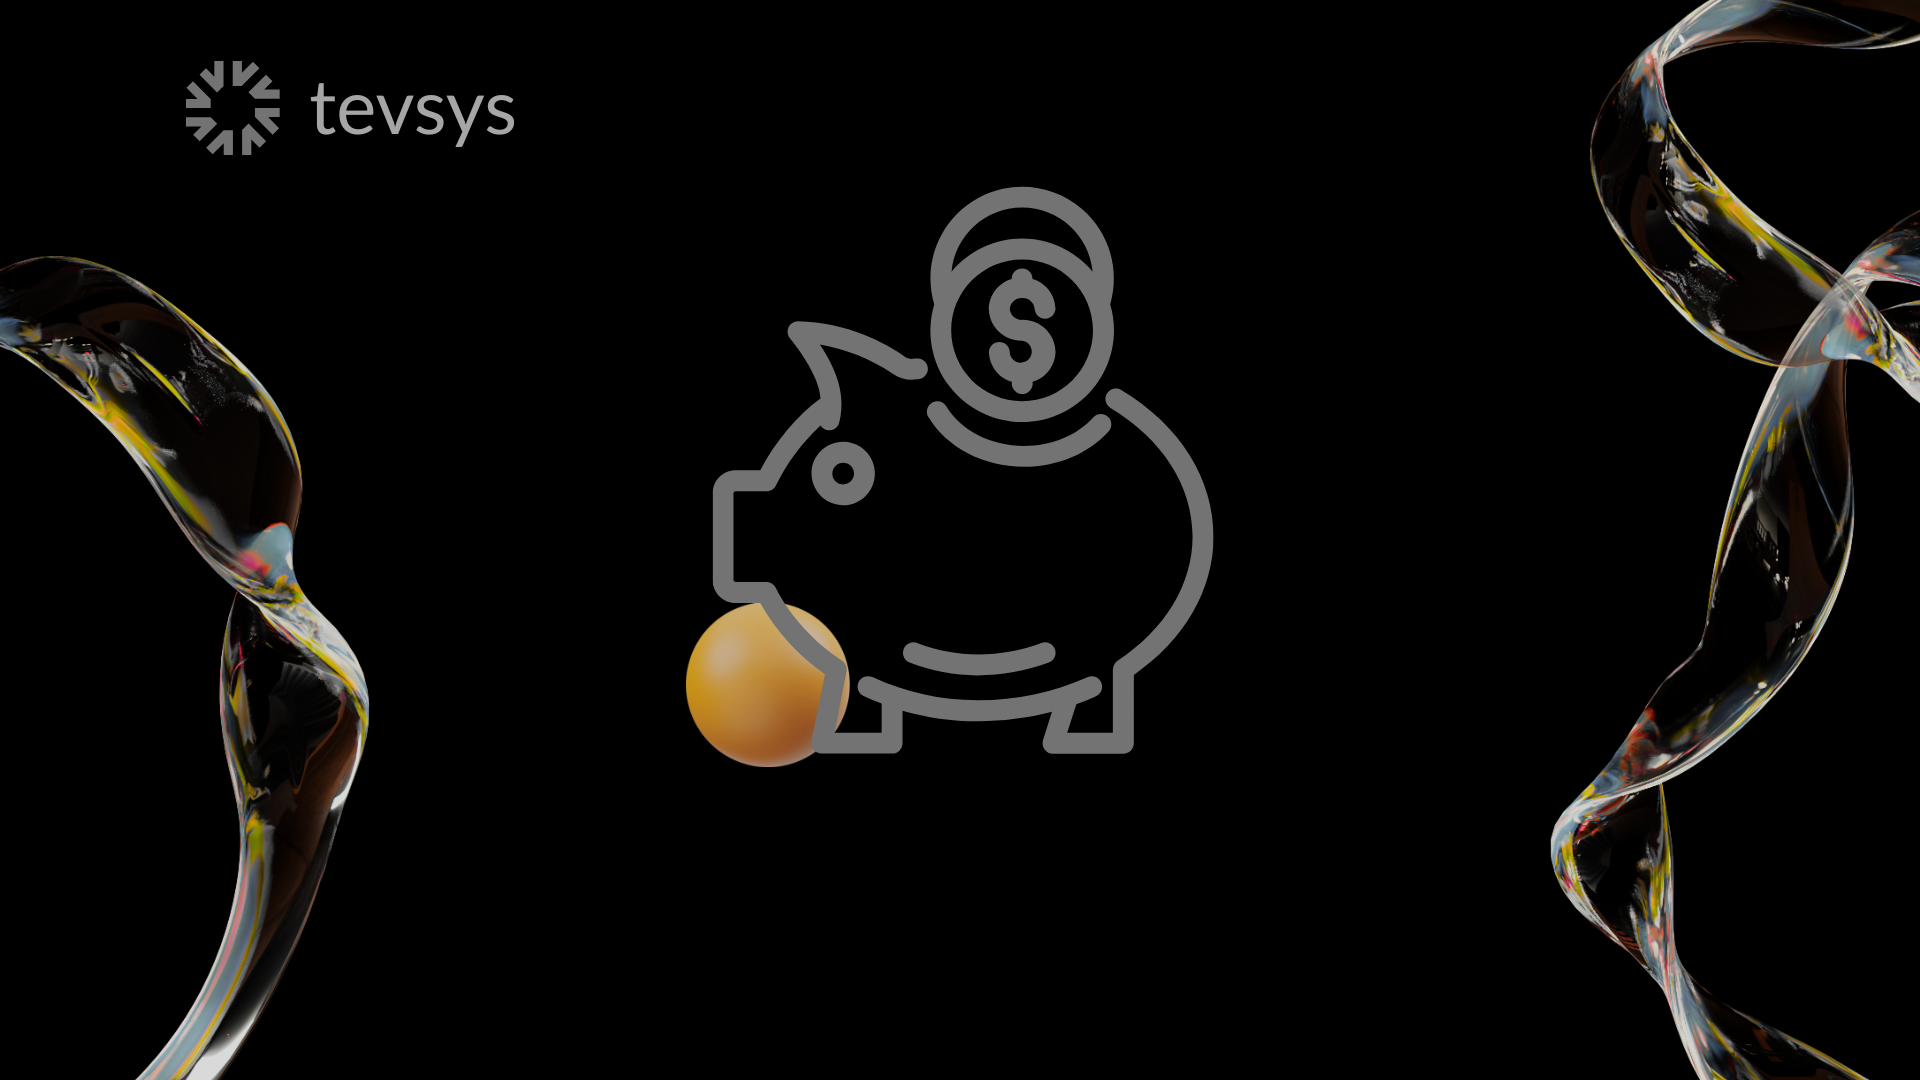
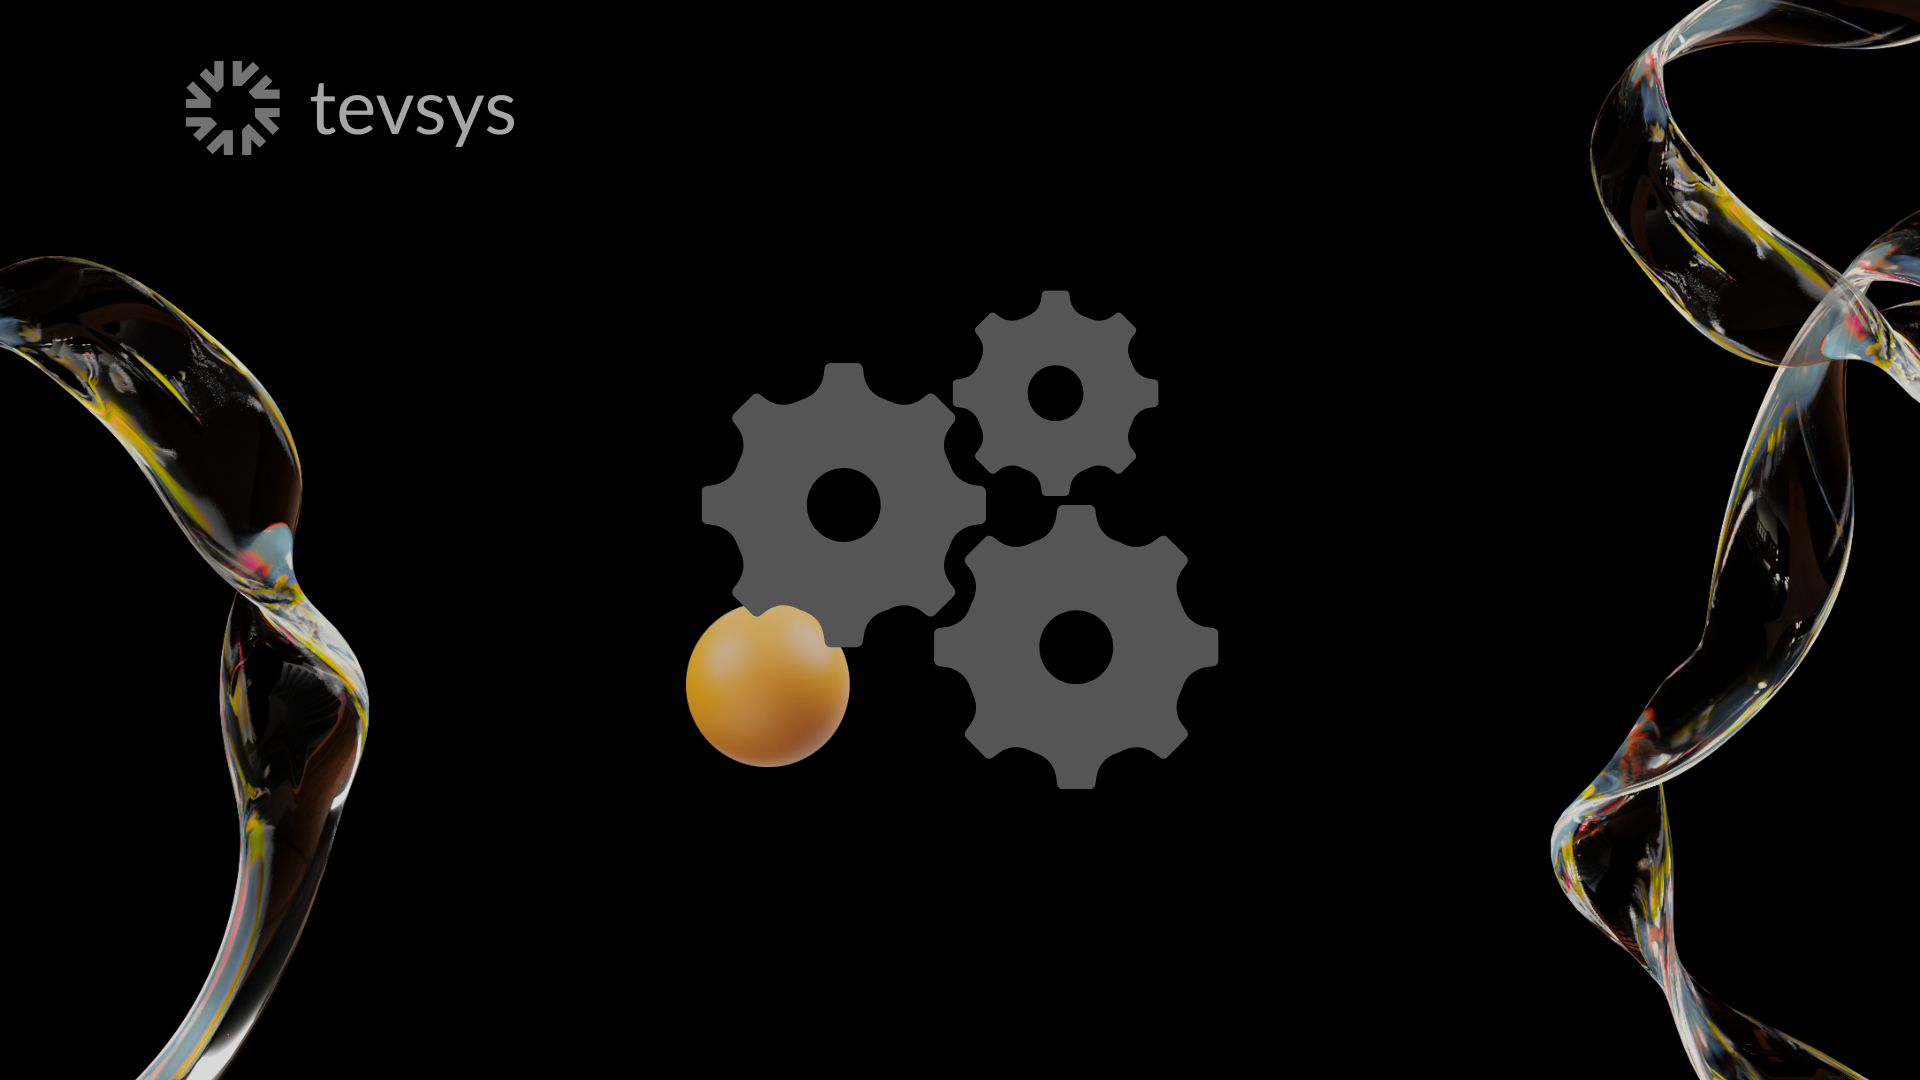
feat(web): card Precisión — engranaje motor (card-1-input v8) + docs

Changed region(s): [[0.3438, 0.1528, 0.6562, 0.7333]]

diff --git a/docs/HOME_HERO_CARDS_ITERACION_ABR2026.md b/docs/HOME_HERO_CARDS_ITERACION_ABR2026.md
@@ -1,6 +1,6 @@
 # Home, hero, header y cards — iteración abril 2026 (confirmado)
 
-Documento de referencia para lo acordado y aplicado en código hasta **abr 2026**. **19 abr 2026:** coherencia tipográfica global (tema oscuro), hero (H1 DM Sans, stack `#000`), escáner con intensidad restaurada, cards `?v=7`, CTAs demo unificados, respiro `.feature-hero` en micropáginas. Estado: **cards** con assets y lectura reforzada; **siguiente fase:** decisión de equipo sobre mensajes finales + **revisión móvil** (hero / escáner) cuando se priorice.
+Documento de referencia para lo acordado y aplicado en código hasta **abr 2026**. **19 abr 2026:** coherencia tipográfica global (tema oscuro), hero (H1 DM Sans, stack `#000`), escáner con intensidad restaurada, CTAs demo unificados, respiro `.feature-hero` en micropáginas; **card 1 (Precisión)** — ilustración **engranajes + esfera** (motor / coherencia con icono EA fin de semana), **`card-1-input.png?v=8`**. Estado: **cards** con assets y lectura reforzada; **siguiente fase:** mensajes finales + ajustes menores si hace falta.
 
 **Repos / rutas:** proyecto `tevsys-landiing` (Astro). Imágenes públicas bajo `public/assets/...`.
 
@@ -45,9 +45,9 @@ Documento de referencia para lo acordado y aplicado en código hasta **abr 2026*
 | **Grid** | 2 columnas desktop; 1 columna móvil; gap aumentado. **Abr 2026:** más aire antes del grid (`margin` bajo intro “Ellos deslizan…” + `margin-top` en `.feature-card__grid`). |
 | **Cards (`.tevsys-card`)** | `--feature-card-radius`; borde/sombra suaves + halo ámbar muy bajo en reposo; hover acentuado sin borde tan duro (abr 2026, integración SaaS). |
 | **Estructura** | Fondo de la card **transparente**; **gris solo** en `.tevsys-card__content` (texto). Evita franja gris entre imagen y texto por fondo heredado + rendija bajo `<img>` (img `display: block`, `picture` bloque, `line-height: 0`). |
-| **Zona imagen** | `background-color: var(--theme-bg)`. **`img`:** mismo `filter` que la mano del hero (`brightness(0.91) saturate(0.97) contrast(1.04)`); hover un poco más vivo; **contraste ≥1** para no parecer borroso. PNG/Canva sigue siendo la base. **19 abr 2026:** cuatro PNG nuevos en `public/.../card-*.png`; **cache-bust `?v=7`** en las cuatro rutas en `index.astro`. |
+| **Zona imagen** | `background-color: var(--theme-bg)`. **`img`:** mismo `filter` que la mano del hero (`brightness(0.91) saturate(0.97) contrast(1.04)`); hover un poco más vivo; **contraste ≥1** para no parecer borroso. PNG/Canva sigue siendo la base. **19 abr 2026:** renovación de assets; **card 1** — **`?v=8`** (`engranaje motor`). |
 | **Zona texto** | Fondo ~`hsl(0, 0%, 6%)` (más cerca del `--theme-bg` ~2% L); párrafos con tamaño, peso 500, color explícito; **hooks** `.feature-card__hook` con **opacity: 1** dentro de cards (la regla global con 0.9 apagaba el texto). **H3** con peso 700. **Lectura reforzada:** clase `.feature-card__value-accent` en cuerpo — **71 operativas**, **no poder seguir**, **mín. 75 % protegido** (misma línea que evidencia `0,0072 %`). |
-| **Card 1 (Precisión / cerdito)** | Primera versión: `<picture>` WebP + PNG; **ajuste:** solo **PNG** en `<img>` para ver exports nuevos sin depender de regenerar `.webp` (cuando haya `npm` + `sharp`, ejecutar `node scripts/optimize-images.js` y se puede volver a `<picture>`). |
+| **Card 1 (Precisión)** | Ilustración **engranajes + esfera ámbar** (motor / ajuste en tiempo real); alineada al **icono engranaje** del EA en configuración fin de semana (vs candado en operativa). Solo **PNG** en `<img>` (WebP opcional tras `optimize-images.js`). Sustituye diseño anterior con alcancía. |
 | **Planes (misma página)** | Fondo y borde/sombra alineados a las cards de valor (`hsl(0,0%,6%)`, halo suave). CTA primario alineado al estilo global de demo (ver **CTAs** abajo). |
 | **CTAs “Descargar demo” / planes** | Reglas compartidas en `global.css` para `a.hero-download-btn`, `a.feature-cta__button`, `a.precios-cta__button`, `a.plan-card__cta:not(.secondary)` — misma tipografía (**Inter 1rem**), padding, radio, color y hover; duplicados locales retirados donde aplica. |
 | **Móvil** | Imagen de card con `aspect-ratio` y `max-height` acotados. |
@@ -63,7 +63,7 @@ Documento de referencia para lo acordado y aplicado en código hasta **abr 2026*
 
 - **Cintas / formas iridiscentes:** en Canva, seleccionar esas capas y **bajar brillo** y **saturación** (o “Tono” / “Transparencia” si el efecto sigue fuerte). Objetivo: que el color no compita con el ámbar de la web; reexportar **mismo tamaño** que el PNG actual. Sustituir en `public/assets/images/home/cards/` y subir `?v=` en `index.astro` si hace falta forzar caché.
 - Fondos probados en diseño: de gris apreciable (**#161618**) a casi negro página (**#060606**, **#050505** / alinear a `--theme-bg`).
-- **Confirmado en código:** contenedor imagen = `var(--theme-bg)`; reexportes sucesivos del usuario a **`public/assets/images/home/cards/card-*.png`** (abr 2026). **Cache-bust** en la home: **`?v=7`** (19 abr 2026) para las cuatro cards.
+- **Confirmado en código:** contenedor imagen = `var(--theme-bg)`; reexportes del usuario a **`public/assets/images/home/cards/card-*.png`**. **Cache-bust card 1:** **`?v=8`** (19 abr 2026, engranaje motor); demás cards según `index.astro`.
 - **WebP** (`card-1-input.webp`): debe **regenerarse** localmente con `scripts/optimize-images.js` cuando el entorno tenga dependencias instaladas; hasta entonces la home puede usar solo PNG en esa card.
 
 ---

diff --git a/docs/CHANGELOG-TEVSYS.md b/docs/CHANGELOG-TEVSYS.md
@@ -4,6 +4,19 @@ Registro completo de cambios aplicados en la landing de tevsys (base Odyssey The
 
 ---
 
+## Home — card 1 (Precisión): engranaje motor (19 abr 2026)
+
+**Motivo:** Sustituir la ilustración anterior (alcancía / “cerdito”) por **engranajes + esfera ámbar**, metáfora de **motor / ajuste en tiempo real**. Alineado con el producto: en el EA, icono de **engranaje** en modo configuración fin de semana; **candado teal** al pasar a operativa protegida.
+
+| Área | Detalle |
+|------|--------|
+| **Asset** | `public/assets/images/home/cards/card-1-input.png` — Canva / export usuario. Origen local típico: `Downloads/card-1-input.png`. |
+| **Web** | `src/pages/index.astro` — misma ruta; **cache-bust `?v=8`** en la imagen de la card 1. |
+
+**Doc:** `HOME_HERO_CARDS_ITERACION_ABR2026.md` §3–4, `CONTENIDO_WEB_TEVSYS_LANDING.md` (cards), `ARREGLOS_WEB_TEVSYS_TODOS_LOS_ARCHIVOS.md`.
+
+---
+
 ## Web — coherencia tipográfica, hero, cards, CTAs y micropáginas (19 abr 2026)
 
 **Objetivo:** Una sola lectura de producto (Inter + DM Sans solo en H1 home), negro unificado, CTAs demo idénticos, micropáginas alineadas y documentación al día con decisiones recientes.
@@ -14,7 +27,7 @@ Registro completo de cambios aplicados en la landing de tevsys (base Odyssey The
 | **H1 hero** | **DM Sans** solo en `.hero-title` (se probó Plus Jakarta Sans, descartada). Resto del hero y header siguen en **Inter**. Google Fonts: `DM+Sans` + `Inter` en `BaseHead.astro`. | `BaseHead.astro`, `HomeHeroSection.astro` |
 | **Imagen mano** | Viñeta más suave; filtros para nitidez; marco exterior del recorte con **animación opcional** de brillo (reduced-motion sin animación); sin marcos CSS que imiten óvalos del PNG. | `HomeHeroSection.astro` |
 | **Escáner header (home)** | **Intensidad restaurada** respecto a la iteración “menos discoteca”: más opacidad, gradientes y `animation-duration` algo más cortas (escritorio/móvil) para dar “vida” sin tocar filosofía del motion. | `global.css` |
-| **Cards home** | Nuevos PNG en `public/.../card-*.png`; **cache-bust `?v=7`** en `index.astro`. Cintas retocadas en origen (tonos ámbar/gris/negro, sin arcoíris). **Lectura:** `feature-card__value-accent` en cuerpo — **71 operativas**, **no poder seguir**, **mín. 75 % protegido** (misma línea que evidencia `0,0072 %`). | `index.astro`, assets |
+| **Cards home** | Nuevos PNG en `public/.../card-*.png`; **cache-bust** en `index.astro` (card 1 **`?v=8`** desde engranaje motor; otras cards según iteración). Cintas retocadas en origen (tonos ámbar/gris/negro, sin arcoíris). **Lectura:** `feature-card__value-accent` en cuerpo — **71 operativas**, **no poder seguir**, **mín. 75 % protegido** (misma línea que evidencia `0,0072 %`). | `index.astro`, assets |
 | **Tema oscuro — tipografía global** | **`[data-theme='dark']`:** `--theme-font-family-sans` y `--theme-font-family-serif` → **Inter** (antes Lato + Roboto Serif en cuerpo/títulos); micropáginas y `h1`–`h3` alineados con la home. | `theme.css` |
 | **CTAs demo** | Reglas globales: mismo **Inter 1rem**, padding, radio, colores y hover para `hero-download-btn`, `feature-cta__button`, `precios-cta__button`, `plan-card__cta` (excepto secundario outline). | `global.css`; estilos locales duplicados retirados en varias páginas |
 | **Contacto / demo** | Bloque izquierdo + columna formulario con **Inter** explícito (alineación con micro-páginas). | `contact.astro` |

diff --git a/docs/ARREGLOS_WEB_TEVSYS_TODOS_LOS_ARCHIVOS.md b/docs/ARREGLOS_WEB_TEVSYS_TODOS_LOS_ARCHIVOS.md
@@ -18,7 +18,7 @@ Resumen técnico completo para revisión interna / DeepSeq.
 | `src/components/core/Header.astro` | Estilos del CTA en nav (botón blanco redondeado). **Abr 2026:** Inter, barra más baja, nav refinada; en `/` clase `tevsys-header--home-scanner` + capa escáner; motion escáner vía `global.css`. |
 | `src/components/head/BaseHead.astro` | Fuentes: **Inter**, **DM Sans** (H1 hero), Outfit según tema. **19 abr 2026:** carga alineada a tipografía hero + micropáginas. **Schema** JSON-LD, **preload** LCP hero WebP (home). |
 | `src/components/sections/heros/HomeHeroSection.astro` | Hero Mar 2026: imagen `mano robotica central web.png`, grid 1fr/2fr, alineación con «T», logo en etiqueta. Reflexión + commits: `REFLEXION_DISENO_HERO_FOOTER_MAR2026.md`, `CHANGELOG-TEVSYS.md` §27. **Abr 2026:** `hero-context-line`, ritmo vertical, halo, imagen con radio/filtros/viñeta. **19 abr 2026:** H1 **DM Sans** (`.hero-title`), mano/viñeta/marco iterados. |
-| `src/pages/index.astro` | 4 cards de valor (2x2), textos finales, imágenes nuevas, sección de planes con CTA por plan e imágenes finales. **Abr 2026:** marcado `tevsys-home-*`; Inter, cards/planes tonos gris oscuro, estructura card sin franja, legibilidad texto, card 1 PNG. **19 abr 2026:** imágenes `card-*.png` + **`?v=7`**; accents `.feature-card__value-accent`; CTA planes secundario con estilo local donde aplica. |
+| `src/pages/index.astro` | 4 cards de valor (2x2), textos finales, imágenes nuevas, sección de planes con CTA por plan e imágenes finales. **Abr 2026:** marcado `tevsys-home-*`; Inter, cards/planes tonos gris oscuro, estructura card sin franja, legibilidad texto, card 1 PNG. **19 abr 2026:** accents `.feature-card__value-accent`; CTA planes secundario con estilo local donde aplica. **Card 1 Precisión:** `card-1-input.png` engranaje motor; **`?v=8`**. |
 | `src/pages/company/contact.astro` | Contacto por plan con título simplificado + visual dinámico por `?plan=` (sin redundancia en encabezado). **19 abr 2026:** **Inter** explícita en copy + formulario (coherencia con micro-páginas). |
 | `src/components/forms/ContactForm.astro` | Badge de plan seleccionado + validación plan/capital + compatibilidad con `flow=demo`. |
 | `public/assets/images/home/cards/*` | Imágenes personalizadas de cards 1-4. |

diff --git a/docs/CONTENIDO_WEB_TEVSYS_LANDING.md b/docs/CONTENIDO_WEB_TEVSYS_LANDING.md
@@ -65,7 +65,7 @@ Documento de contenido/copy actual para revisión de equipo.
 
 ### Cards (4)
 - **UX clicable (Mar 2026):** Flecha "→" esquina inferior derecha, hover marcado (borde amarillo, sombra, elevación). Opción C híbrido.
-- **Diseño abr 2026 (confirmado en código):** Inter en la sección; bloque de texto con gris oscuro (~9% luminosidad); zona ilustración con fondo `var(--theme-bg)`; tipografía cuerpo reforzada (peso/color); card 1 puede servirse solo en PNG mientras se regenera WebP. **19 abr 2026:** imágenes `card-*.png` renovadas; **cache-bust `?v=7`**; **acentos de lectura** `.feature-card__value-accent` (71 operativas; no poder seguir; mín. 75 % protegido). Detalle: `HOME_HERO_CARDS_ITERACION_ABR2026.md`.
+- **Diseño abr 2026 (confirmado en código):** Inter en la sección; bloque de texto con gris oscuro (~9% luminosidad); zona ilustración con fondo `var(--theme-bg)`; tipografía cuerpo reforzada (peso/color); card 1 puede servirse solo en PNG mientras se regenera WebP. **19 abr 2026:** card 1 (Precisión) — ilustración **engranajes + esfera** (motor; coherente con icono EA fin de semana); **cache-bust `card-1-input.png?v=8`**; **acentos de lectura** `.feature-card__value-accent` (71 operativas; no poder seguir; mín. 75 % protegido). Detalle: `HOME_HERO_CARDS_ITERACION_ABR2026.md`.
 - **CTAs demo (19 abr 2026):** mismas reglas globales para botones demo en hero, features, precios y planes (Inter, padding, hover) — `global.css`; ver `CHANGELOG-TEVSYS.md`.
 - **Tema oscuro — tipografía global (19 abr 2026):** en `[data-theme='dark']`, cuerpo y títulos de micropáginas usan **Inter** vía `theme.css` (antes Lato + Roboto Serif en variables de tema).
 - **Micropáginas — respiro (19 abr 2026):** espaciado bajo `.feature-hero` unificado en `global.css` (mismo criterio en todas las guías).

diff --git a/docs/CARDS-NEXT-PHASE.md b/docs/CARDS-NEXT-PHASE.md
@@ -7,7 +7,7 @@ Este documento reemplaza el enfoque inicial de placeholders y recoge el estado a
 - **Documentación única:** `docs/HOME_HERO_CARDS_ITERACION_ABR2026.md` (hero, header, cards, motion escáner, tema oscuro, CTAs, micropáginas).
 - **Changelog:** `CHANGELOG-TEVSYS.md` (entrada “Home, hero, header y cards — abr 2026” + **“Web — coherencia tipográfica…” — 19 abr 2026**).
 - **Hecho:** refinamiento visual y copy en home (cards + planes en misma página).
-- **19 abr 2026 (cerrado en código + docs):** stack hero **`#000`**; **DM Sans** solo en H1 home; imágenes cards nuevas + **`?v=7`**; **Inter** en tema oscuro global (`theme.css`); CTAs demo unificados (`global.css`); contacto con **Inter** explícita; escáner header con **intensidad restaurada** (duraciones 29,5s / 28s / 23,5s); **`.feature-hero`** con respiro global; **Precisión:** orden demos volatilidad → Nasdaq → cuenta pequeña → logs.
+- **19 abr 2026 (cerrado en código + docs):** stack hero **`#000`**; **DM Sans** solo en H1 home; imágenes cards renovadas (**card 1** `card-1-input.png` engranaje motor + **`?v=8`**); **Inter** en tema oscuro global (`theme.css`); CTAs demo unificados (`global.css`); contacto con **Inter** explícita; escáner header con **intensidad restaurada** (duraciones 29,5s / 28s / 23,5s); **`.feature-hero`** con respiro global; **Precisión:** orden demos volatilidad → Nasdaq → cuenta pequeña → logs.
 - **Siguiente (equipo):** decidir **qué cards** y mensajes definitivos en home; seguir **micropáginas** alineadas; **revisión móvil** (hero feo / escáner) cuando se priorice.
 
 ---
